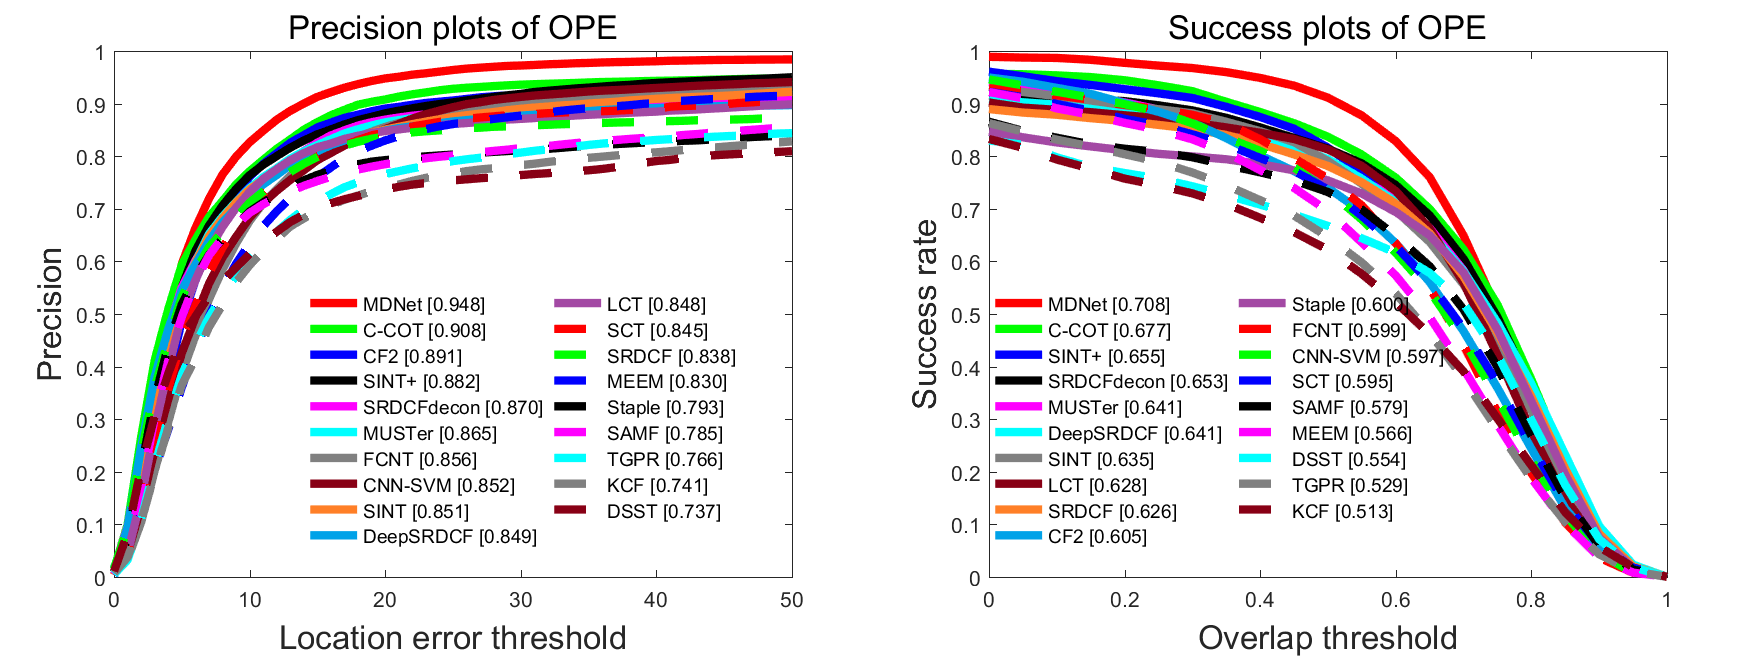
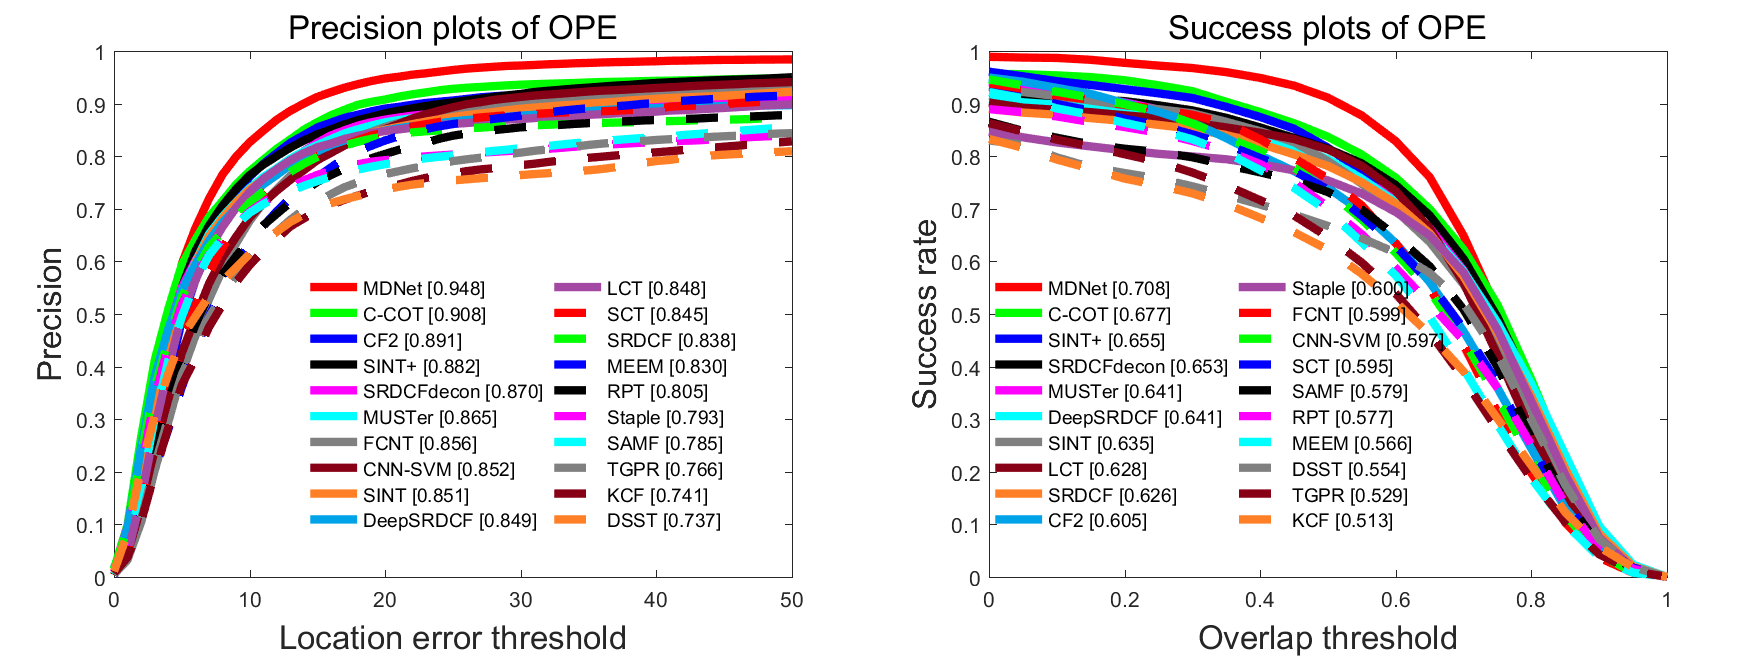
RPT

diff --git a/README.md b/README.md
@@ -71,6 +71,11 @@
 [[paper](https://drive.google.com/file/d/0B8-i_hZvGyZNMzc5QWtINjhIMU0/view)]
 [[project](https://sites.google.com/site/chaoma99/cvpr15_tracking)]
 
+* **RPT:** Yang Li, Jianke Zhu and Steven C.H. Hoi. 
+"Reliable Patch Trackers: Robust Visual Tracking by Exploiting Reliable Patches." CVPR (2015). 
+[[paper](https://github.com/ihpdep/ihpdep.github.io/raw/master/papers/cvpr15_rpt.pdf)]
+[[project](https://github.com/ihpdep/rpt)]
+
 * **DSST:** Martin Danelljan, Gustav Häger, Fahad Shahbaz Khan and Michael Felsberg. 
 "Accurate Scale Estimation for Robust Visual Tracking." BMVC (2014).
 [[paper](http://www.cvl.isy.liu.se/research/objrec/visualtracking/scalvistrack/ScaleTracking_BMVC14.pdf)]
